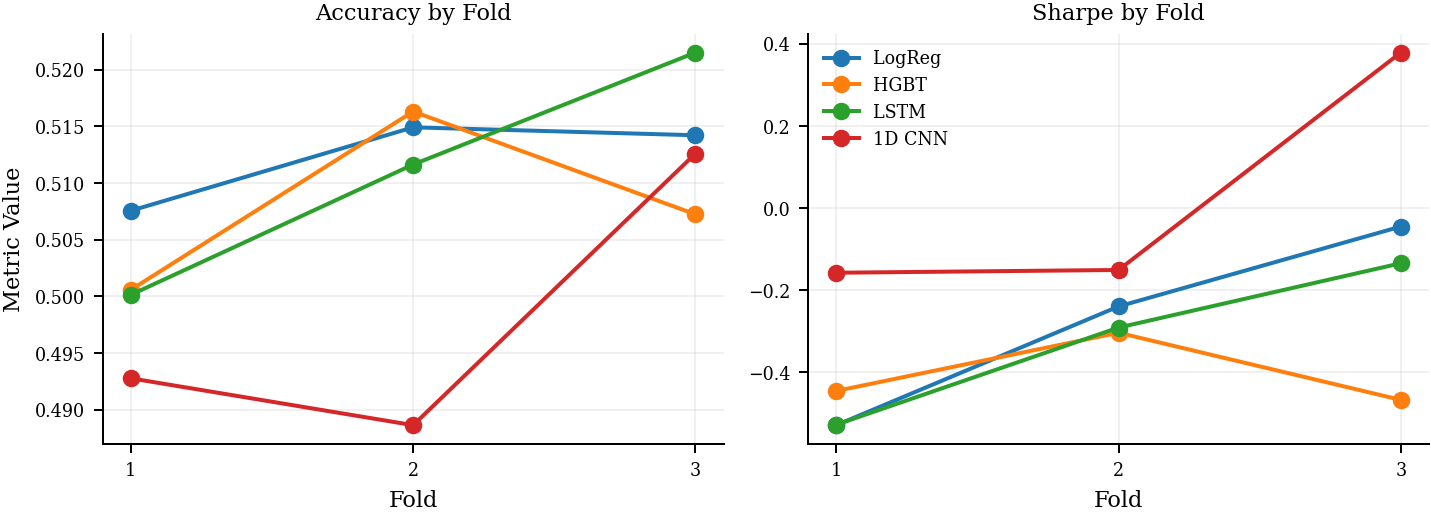
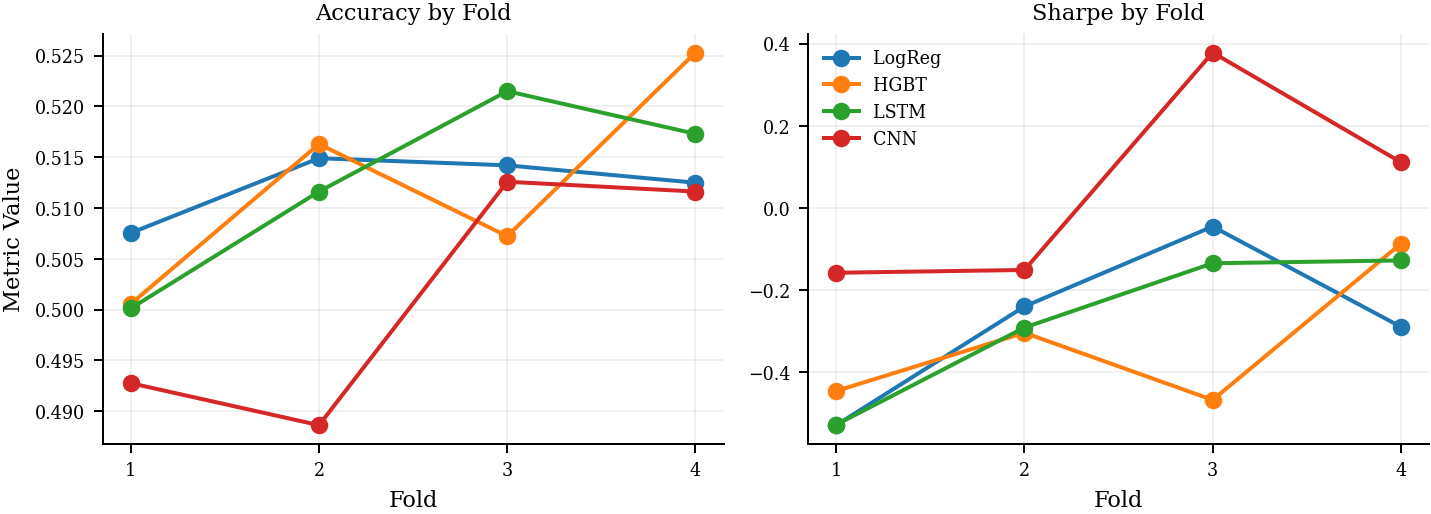
docs(benchmarks): refresh four-fold long-history snapshot

diff --git a/README.md b/README.md
@@ -96,6 +96,7 @@ python scripts/export_onnx.py --run-id latest
 
 - `cnn_ohlcv`
 - `cnn_ohlcv_funding`
+- `cnn_ohlcv_funding_open_interest`
 - `cnn_ohlcv_liquidation`
 - `cnn_combined_all`
 - `lstm_ohlcv`
@@ -106,23 +107,40 @@ Each experiment stores the resolved Hydra configuration, feature manifest, scale
 
 ## Long-History Walk-Forward Snapshot
 
-The repository now includes a longer-history walk-forward benchmark over raw futures archives downloaded for `2023-01-01` through `2025-12-31`, using expanding-window evaluation on `BTCUSDT`, `ETHUSDT`, and `SOLUSDT` `1h` bars. The saved fold tables in [docs/results/long_history_core_architectures_summary.csv](docs/results/long_history_core_architectures_summary.csv) and [docs/results/long_history_cnn_funding_ablation_summary.csv](docs/results/long_history_cnn_funding_ablation_summary.csv) cover three expanding folds whose test windows span `2024-10-19` through `2025-09-13` (UTC).
+The repository now includes a four-fold expanding-window benchmark over raw Binance USD-M futures archives downloaded for `2023-01-01` through `2025-12-31`, using pooled `BTCUSDT`, `ETHUSDT`, and `SOLUSDT` `1h` bars. A raw-archive integrity sweep after download verified zero missing checksum files and zero checksum mismatches across:
 
-Current headline results on this longer-history benchmark:
+- `165` kline archives per symbol
+- `36` funding-rate archives per symbol
+- `1,096` metrics archives per symbol
 
-- Best mean accuracy: `LogReg` at `0.5122`
-- Best mean ROC-AUC: `LSTM` at `0.5194`
-- Best mean cumulative return: `1D CNN` at `0.1802`
-- Best mean Sharpe: `1D CNN` at `0.0233`
-- Funding ablation: `1D CNN (OHLCV + Funding)` improves the mean walk-forward Sharpe to `0.1330` versus `0.0233` for `1D CNN`
+The refreshed core architecture benchmark in [docs/results/long_history_core_architectures_summary.csv](docs/results/long_history_core_architectures_summary.csv) uses four expanding folds whose test windows span `2024-10-19 23:00:00+00:00` through `2025-12-31 21:00:00+00:00`.
 
-The important scientific point is not that one model is dramatically strong. On this materially longer sample, the benchmark is much harder than the short Q1 2024 slice: discrimination is modest, cost-adjusted results are unstable, and only the CNN variants show slightly positive mean trading metrics with large fold-to-fold variance.
+Current core-model headline results on this longer-history benchmark:
+
+- Best mean accuracy: `LSTM` at `0.5126`
+- Best mean ROC-AUC: `LSTM` at `0.5202`
+- Best mean cumulative return: `1D CNN` at `0.1877`
+- Best mean Sharpe: `1D CNN` at `0.0453`
+
+The full available CNN signal ablation in [docs/results/long_history_cnn_full_ablation_summary.csv](docs/results/long_history_cnn_full_ablation_summary.csv) uses the same four-fold protocol, with test windows spanning `2024-10-21 20:00:00+00:00` through `2025-12-31 22:00:00+00:00` once lagged feature availability is enforced.
+
+Current signal-ablation headline results:
+
+- Best mean accuracy: `1D CNN (OHLCV + Open Interest)` at `0.5079`
+- Best mean ROC-AUC: `1D CNN (OHLCV + Open Interest)` at `0.5002`
+- Best mean cumulative return: `1D CNN (OHLCV + Open Interest)` at `0.3880`
+- Best mean Sharpe: `1D CNN (OHLCV + Open Interest)` at `0.0846`
+- `OHLCV + Funding` alone does not outperform the OHLCV-only CNN on Sharpe in this longer-history setup
+
+The scientific takeaway is still restrained. On this materially longer sample ending on `2025-12-31`, classification performance remains only slightly above chance and trading outcomes remain fold-sensitive. The most defensible positive finding in the current benchmark is that open-interest-style exchange metrics add more value than funding rates for this simple CNN, while the architecture comparison remains broadly difficult and unstable.
 
 ![Long-history core summary](docs/figures/long_history_core_architectures_summary.png)
 
 ![Long-history core fold traces](docs/figures/long_history_core_architectures_fold_traces.png)
 
-![Long-history CNN funding ablation](docs/figures/long_history_cnn_funding_ablation_summary.png)
+![Long-history CNN full ablation](docs/figures/long_history_cnn_full_ablation_summary.png)
+
+![Long-history CNN ablation fold traces](docs/figures/long_history_cnn_full_ablation_fold_traces.png)
 
 Recreate the longer-history tables and figures with:
 
@@ -133,15 +151,19 @@ python scripts/run_walk_forward.py \
   --config-name hgbt_ohlcv \
   --config-name lstm_ohlcv \
   --config-name cnn_ohlcv \
-  --symbols BTCUSDT ETHUSDT SOLUSDT
+  --symbols BTCUSDT ETHUSDT SOLUSDT \
+  --override experiment.eval.walk_forward.n_splits=4
 ```
 
 ```bash
 python scripts/run_walk_forward.py \
-  --suite-name long_history_cnn_funding_ablation \
+  --suite-name long_history_cnn_full_ablation \
   --config-name cnn_ohlcv \
   --config-name cnn_ohlcv_funding \
-  --symbols BTCUSDT ETHUSDT SOLUSDT
+  --config-name cnn_ohlcv_open_interest \
+  --config-name cnn_ohlcv_funding_open_interest \
+  --symbols BTCUSDT ETHUSDT SOLUSDT \
+  --override experiment.eval.walk_forward.n_splits=4
 ```
 
 ```bash
@@ -150,6 +172,14 @@ python scripts/generate_walk_forward_figures.py \
   --folds-csv docs/results/long_history_core_architectures_folds.csv \
   --prefix long_history_core_architectures \
   --title "Long-History Walk-Forward Core Architecture Comparison"
+```
+
+```bash
+python scripts/generate_walk_forward_figures.py \
+  --summary-csv docs/results/long_history_cnn_full_ablation_summary.csv \
+  --folds-csv docs/results/long_history_cnn_full_ablation_folds.csv \
+  --prefix long_history_cnn_full_ablation \
+  --title "Long-History Walk-Forward CNN Signal Ablation"
 ```
 
 ## Methodology principles

diff --git a/docs/results/long_history_core_architectures_summary.md b/docs/results/long_history_core_architectures_summary.md
@@ -1,6 +1,6 @@
 | Model | Folds | Accuracy | ROC-AUC | CumReturn | Sharpe |
 | --- | --- | --- | --- | --- | --- |
-| LogReg | 3 | 0.5122 | 0.5167 | -0.6289 | -0.2710 |
-| LSTM | 3 | 0.5111 | 0.5194 | -0.7028 | -0.3176 |
-| HGBT | 3 | 0.5080 | 0.5109 | -0.8205 | -0.4053 |
-| 1D CNN | 3 | 0.4980 | 0.4927 | 0.1802 | 0.0233 |
+| LSTM | 4 | 0.5126 | 0.5201 | -0.6406 | -0.2701 |
+| HGBT | 4 | 0.5124 | 0.5141 | -0.7100 | -0.3257 |
+| LogReg | 4 | 0.5123 | 0.5163 | -0.6432 | -0.2755 |
+| 1D CNN | 4 | 0.5014 | 0.4957 | 0.1877 | 0.0453 |

diff --git a/docs/results/long_history_cnn_full_ablation_summary.md b/docs/results/long_history_cnn_full_ablation_summary.md
@@ -1,0 +1,6 @@
+| Model | Folds | Accuracy | ROC-AUC | CumReturn | Sharpe |
+| --- | --- | --- | --- | --- | --- |
+| 1D CNN (OHLCV + Open Interest) | 4 | 0.5079 | 0.5002 | 0.3880 | 0.0846 |
+| 1D CNN (OHLCV + Funding + Open Interest) | 4 | 0.5049 | 0.5000 | 0.3365 | 0.0528 |
+| 1D CNN | 4 | 0.5014 | 0.4957 | 0.1877 | 0.0453 |
+| 1D CNN (OHLCV + Funding) | 4 | 0.4993 | 0.4979 | 0.2671 | 0.0257 |
